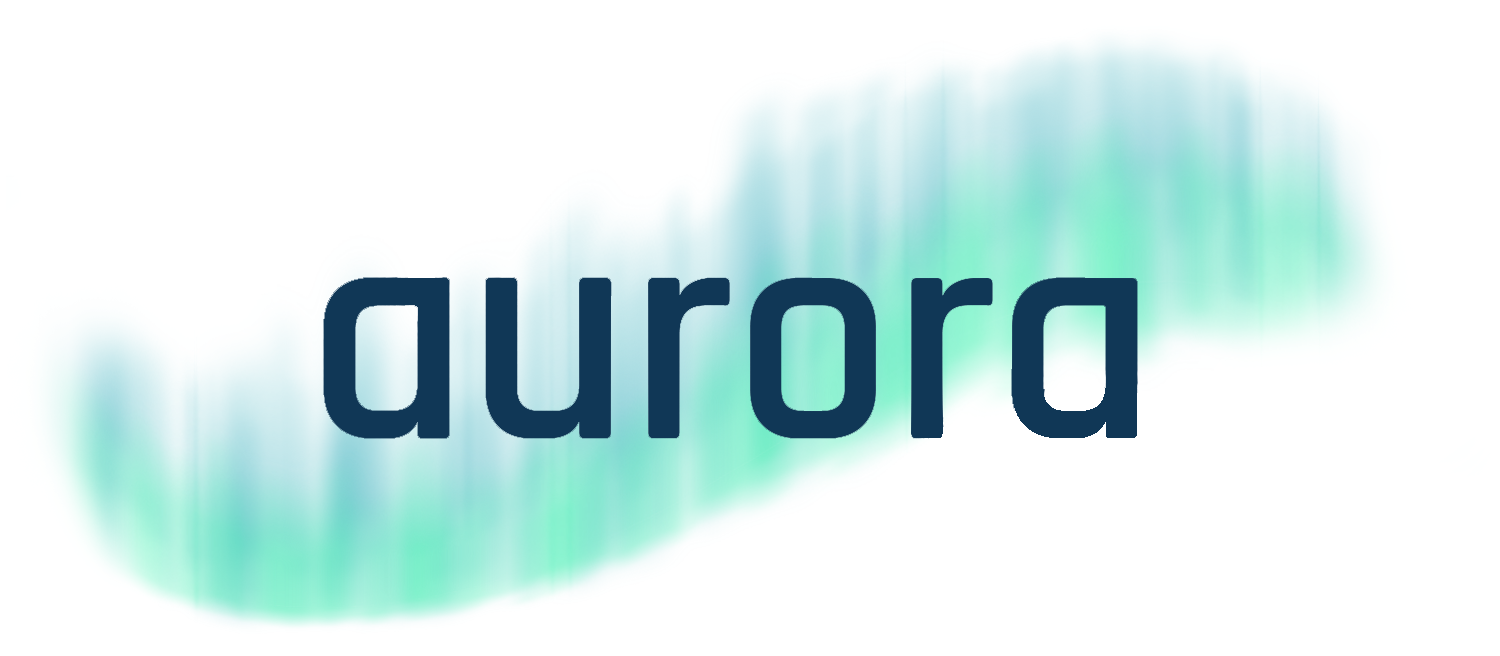
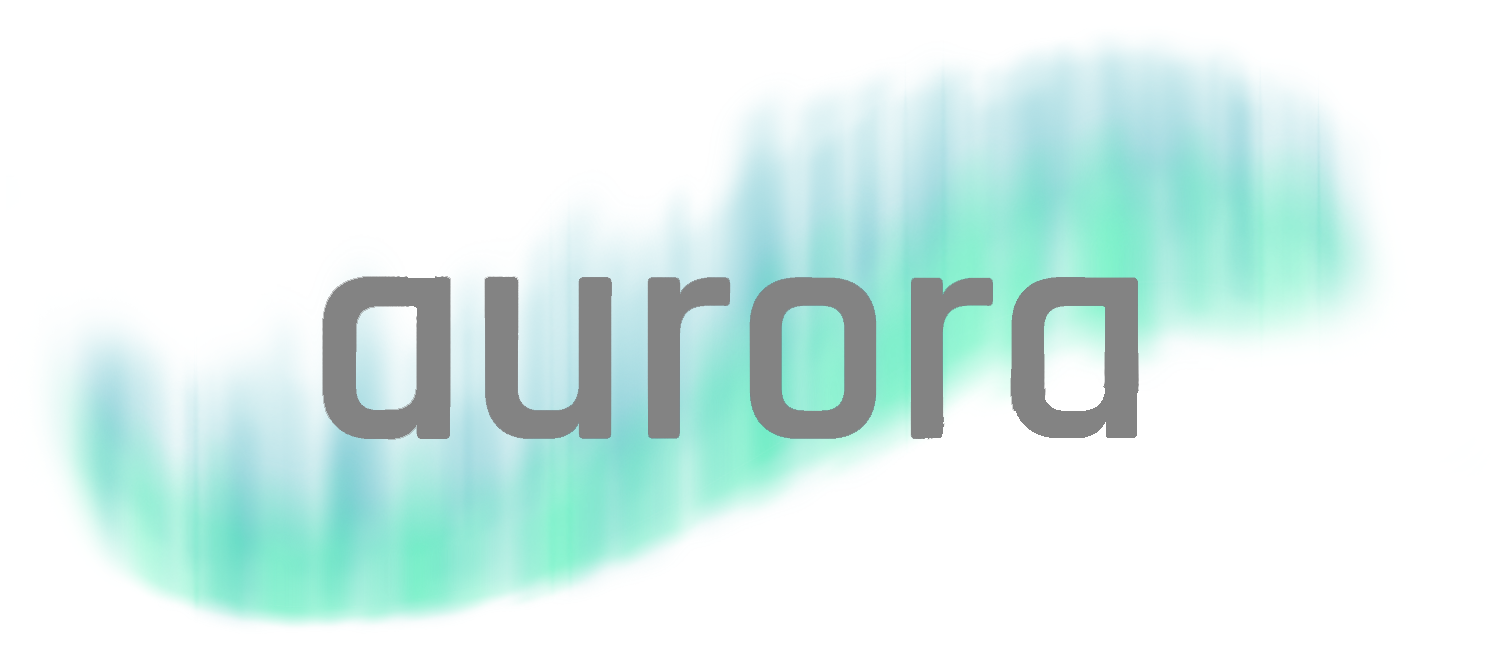
color update/image update

Changed region(s): [[0.2147, 0.3963, 0.7667, 0.6707]]

diff --git a/css/aurora.css b/css/aurora.css
@@ -14,6 +14,9 @@
 .color-5 {
     color: #48F6B2;
 }
+.color-6 {
+  color: #838383;
+}
 .main-bg {
     background-color: #103756;
 }
@@ -28,6 +31,9 @@
 }
 .bg-5 {
     background-color: #48F6B2;
+}
+.bg-6 {
+  background-color: #838383;
 }
 
 /******* Grid ********/
